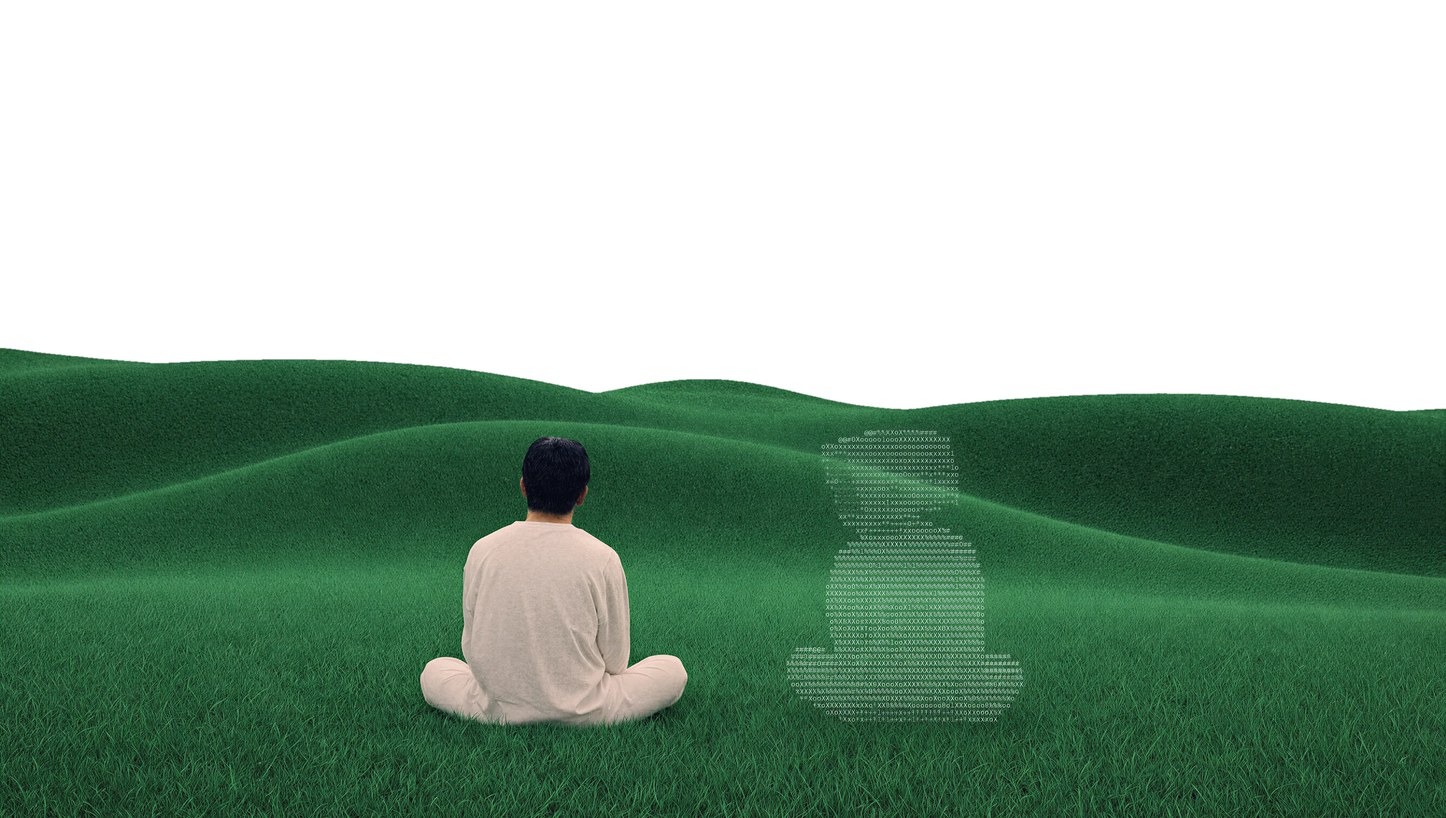
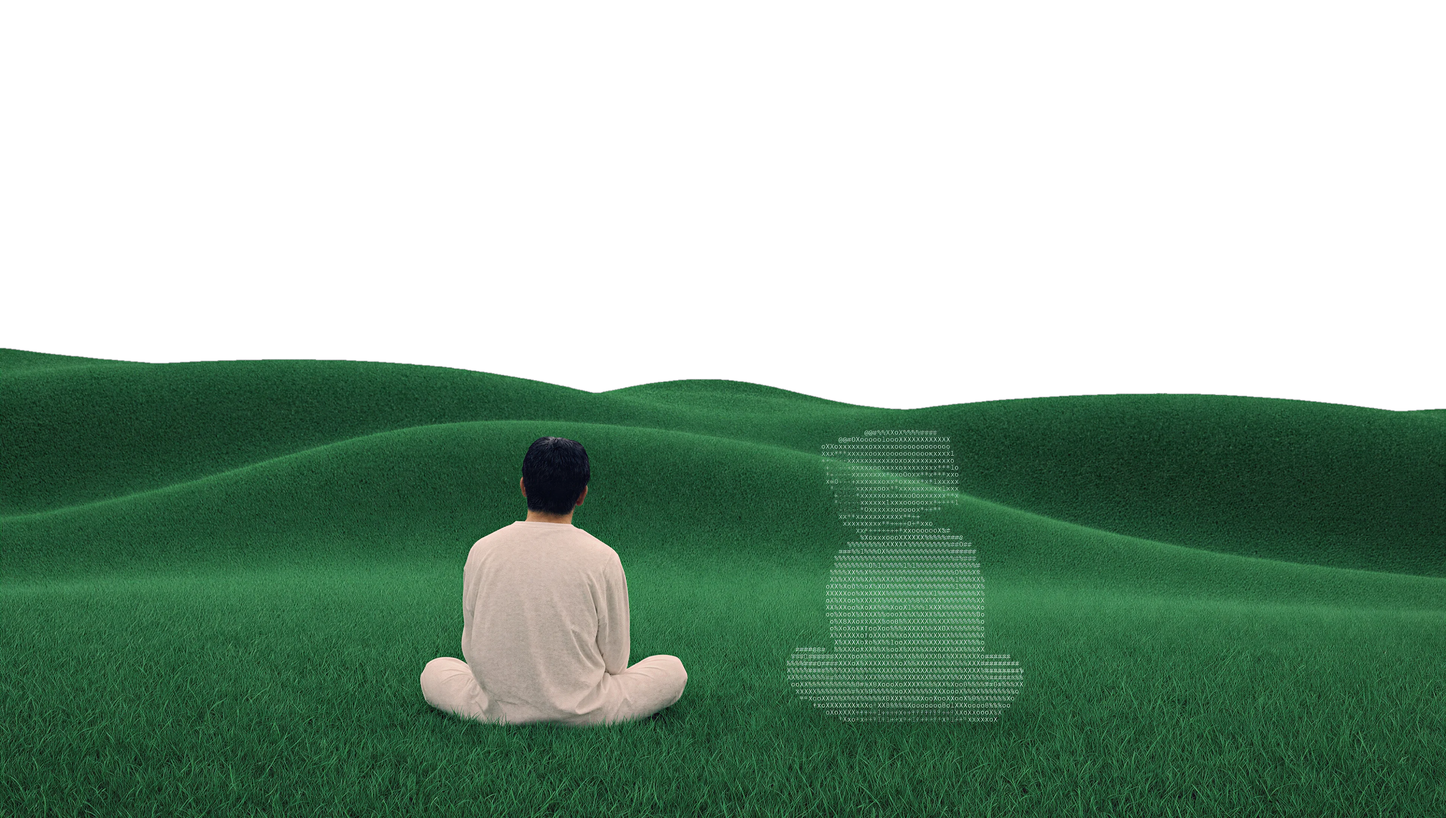
Home: hero photo without grain (Magnific Precision, grain 0)
Owner: the grain made the photo look cheap. Re-upscaled from the original
with Magnific Precision (sublime) at grain 0 and sharpness 4; the
denoiser and creative modes were tried and left more speckle. Same size
(3840x2171) and transparent sky.

Changed region(s): [[0.0, 0.7407, 1.0, 1.0], [0.5938, 0.6481, 0.6875, 0.7098]]

diff --git a/DESIGN.md b/DESIGN.md
@@ -922,7 +922,7 @@ Logged decisions:
 - 2026-11-27, hero (owner): the home hero fits one screen. The call to action moves from under the photo to under the abstract; the photo fills the remaining height (cover, bottom centre) with a fade at its top edge.
 - 2026-11-27, hero (owner): the photo shows in full at the page's width, with no fade at the top and a fade at its bottom edge. This takes priority over fitting one screen: on wide screens the faded grass runs below the fold.
 - 2026-11-27, hero (owner): the whole photo fits one screen; the text may overlap it. The photo is pinned to the bottom of a screen-high hero (only its transparent sky is clipped), and the abstract and button sit over the hills on short screens.
-- 2026-11-27, hero photo (owner): upscaled with Magnific (Precision "sublime", 2x to 5376x3040), resized to 3840x2171 for the site, transparent sky restored from the original alpha. Sharper ASCII figure, hair and grass; a few ASCII glyphs changed shape slightly in the upscale.
+- 2026-11-27, hero photo (owner): upscaled with Magnific (Precision "sublime", 2x to 5376x3040, grain 0 and low sharpness: the owner found grain made it look cheap), resized to 3840x2171 for the site, transparent sky restored from the original alpha. Sharper ASCII figure, hair and grass; a few ASCII glyphs changed shape slightly in the upscale.
 
 ## Iteration Guide
 
